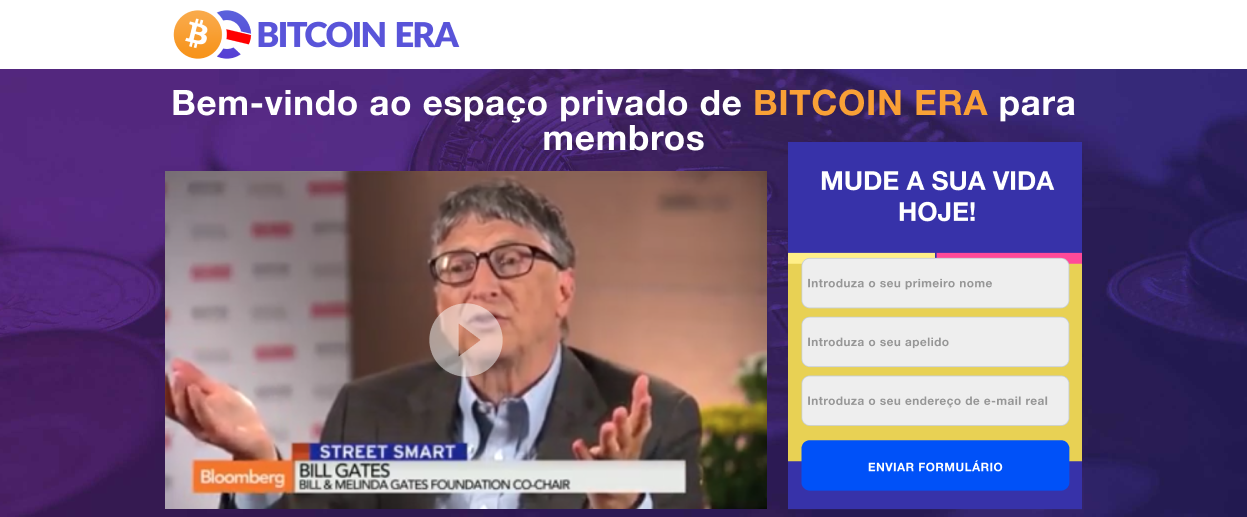
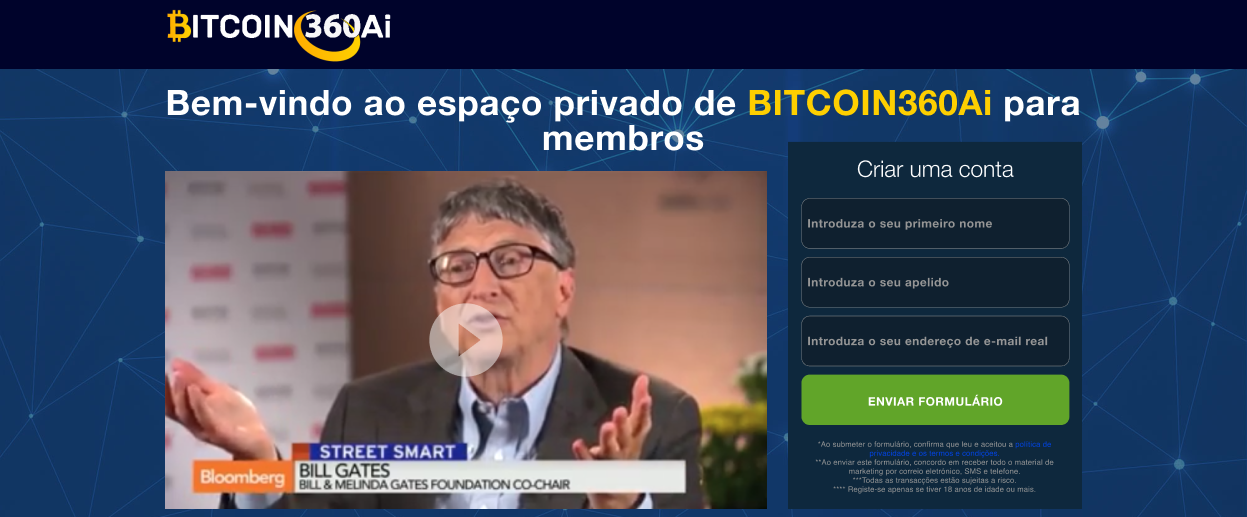
popup

diff --git a/src/components/popup/popup.js b/src/components/popup/popup.js
@@ -4,7 +4,7 @@ import iconClose from "../../assets/images/icon-close-black.svg";
 import "./popup.css";
 
 const Popup = () => {
-  const [showModal, setShowModal] = useState(false);
+  const [showModal, setShowModal] = useState(true);
   const [dimensions, setDimensions] = useState({ width: 0, height: 0 });
   useEffect(() => {
     const img = new Image();
@@ -29,7 +29,7 @@ const Popup = () => {
   return (
     <>
       {showModal && (
-        <div className="popup" onClick={()=>setShowModal(false)}>
+        <div className="popup" onClick={() => setShowModal(false)}>
           <div
             className="popup_container"
             style={{
@@ -38,27 +38,28 @@ const Popup = () => {
               borderRadius: "2%",
             }}
           >
-            <div className="popup_container_close_container">
-              <img
-                onClick={() => closeModal()}
-                className="popup_close"
-                src={iconClose}
-                alt="close"
-              />
+            <div className="sbs">
+              <p className="popup_container_title_container">
+                <span className="popup_container_title">Não o perca!</span>
+                <br />
+                <span className="popup_container_subtitle">
+                  Esta é a ÚLTIMA chance de entrar no
+                </span>
+              </p>
+              {/* <div className="popup_container_close_container">
+                <img
+                  onClick={() => closeModal()}
+                  className="popup_close"
+                  src={iconClose}
+                  alt="close"
+                />
+              </div> */}
             </div>
-            <p className="popup_container_title_container">
-              <span className="popup_container_title">Não o perca!</span>
-              <br />
-              <span className="popup_container_subtitle">
-              Esta é a ÚLTIMA chance de entrar no
-              </span>
-            </p>
-
             <button
               onClick={() => handleRoute("popup-button")}
               className="popup_button"
             >
-             Comece agora
+              Comece agora
             </button>
           </div>
         </div>

diff --git a/src/components/popup/popup.css b/src/components/popup/popup.css
@@ -11,36 +11,44 @@
   z-index: 2;
 }
 .popup_container {
-  position: relative;
-  padding: 30px;
+  padding: 5px 30px 20px 30px;
   display: flex;
   flex-direction: column;
   justify-content: space-between;
   align-items: center;
   border: 3px solid white;
 }
-.popup_container_title_container{
+.popup_container_title_container {
+  margin-top: 0px;
   text-align: center;
-  font-family: 'ModalFont';
+  font-family: "ModalFont";
 }
-.popup_container_title{
+.popup_container_title {
+  color: #fad500 !important;
+  flex-grow: 1;
+  flex-shrink: 1;
   color: var(--text-white);
-  font-size: 23px;
+  font-size: 21px;
   font-weight: 700;
   text-align: center;
 }
-.popup_container_subtitle{
+.popup_container_subtitle {
   color: var(--text-white);
-  font-size: 23px;
+  font-size: 21px;
   font-weight: 700;
   text-align: center;
 }
-.popup_container_close_container{
-  width: 100%;
-  margin-top: -20px;
+.popup_container_close_container {
+  order: 0;
+  flex-grow: 0;
+  align-self: baseline;
+}
+.sbs {
+  margin: 0 auto 0 auto;
   display: flex;
-  position: absolute;
-  justify-content: flex-end;
+  flex-direction: row;
+  align-items: center;
+  gap: 50px;
 }
 .popup-background {
   width: 100%;
@@ -85,6 +93,7 @@
   font-size: 17px;
   font-weight: 700;
   text-align: center;
+  margin-top: 3px;
   width: 200px;
   max-width: 2000px;
   padding: 9px 20px;

diff --git a/src/config.js b/src/config.js
@@ -1,11 +1,11 @@
 import axios from "axios";
-import FORMULA from "./assets/images/BitcoinEra.png";
+import FORMULA from "./assets/images/BitcoinEra.jpeg";
 import LEQUOTIDIEN from "./assets/images/logo.png"
 
 export const LINK = "https://givemes.com/outgoing";
 export const CHARACTER = "Manuel Luís Goucha";
 export const CHARACTER_FIRSTNAME = "Manuel";
-export const OFFER_NAME = "BITCOIN ERA";
+export const OFFER_NAME = "Bitcoin360AI";
 export const MODAL = FORMULA;
 export const SUBTITLE_FIRST_LINE = `Slovenski državljani že kopičijo milijone evrov od doma z uporabo te "vrzeli bogastva" - ampak je to zakonito?`;
 export const SUBTITLE_SECOND_LINE = `est-ce légitime?`;
